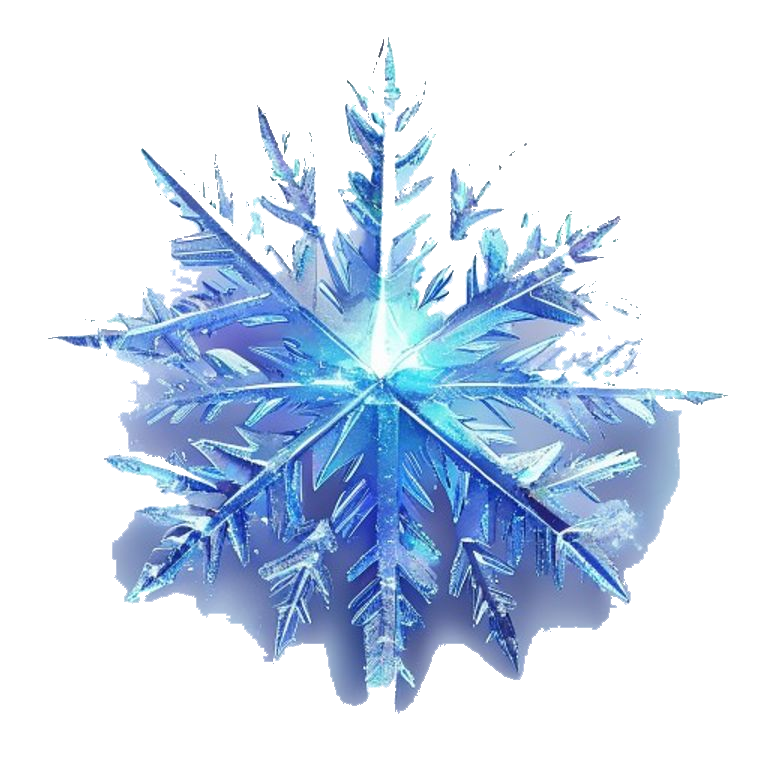
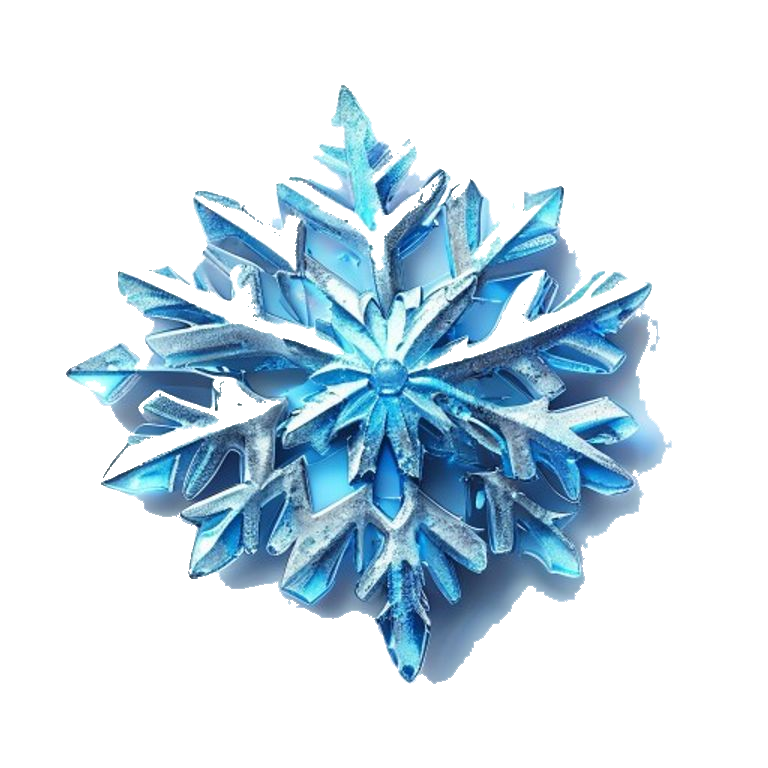
feat: เจนไอคอนสกิลใหม่ 3 ใบ แช่แข็ง/พลังโจมตี/กำแพง (v3.24.33)
skill_freeze + skill_attack + skill_wall เจนใหม่ (pollinations flux,
die-cut sticker บนพื้นขาว) แล้วคีย์พื้นออก → โปร่งใสสะอาดเข้าชุดกัน
คง skill_meteor + skill_goldrush เดิมไว้

diff --git a/Tower Quest 🏰.html b/Tower Quest 🏰.html
@@ -3,7 +3,7 @@
 
 <meta name="viewport" content="width=device-width, initial-scale=1.0, maximum-scale=1.0, user-scalable=no">
 <title>Tower Quest 🏰</title>
-<link rel="stylesheet" href="css/main.css?v=3.24.32">
+<link rel="stylesheet" href="css/main.css?v=3.24.33">
 </head>
 <body>
 
@@ -59,7 +59,7 @@
   <div class="island" id="logoIsland">🏰</div>
   <div class="gtitle">TOWER QUEST</div>
   <div class="gsub">⚔ ปกป้องอาณาจักรของคุณ!</div>
-  <div id="verBtn" style="font-size:10px;color:rgba(255,224,130,.45);letter-spacing:1px;margin-top:-18px;margin-bottom:18px;cursor:pointer;">📰 v3.24.32 — มีอะไรใหม่<span id="newsBadge" class="news-badge" style="display:none;"></span></div>
+  <div id="verBtn" style="font-size:10px;color:rgba(255,224,130,.45);letter-spacing:1px;margin-top:-18px;margin-bottom:18px;cursor:pointer;">📰 v3.24.33 — มีอะไรใหม่<span id="newsBadge" class="news-badge" style="display:none;"></span></div>
 
   <!-- battle buttons -->
   <button class="bbattle" id="startBtn">⚔ โหมดเนื้อเรื่อง</button>
@@ -920,15 +920,15 @@
     <button class="obtn" onclick="closeSettings()">✔ ปิด</button>
   </div>
 </div>
-<script src="js/cloud-save.js?v=3.24.32"></script>
-<script src="js/save.js?v=3.24.32"></script>
-<script src="js/enemy.js?v=3.24.32"></script>
-<script src="js/tower.js?v=3.24.32"></script>
-<script src="js/game.js?v=3.24.32"></script>
-<script src="js/ui-data.js?v=3.24.32"></script>
-<script src="js/ui-profile.js?v=3.24.32"></script>
-<script src="js/ui-casino.js?v=3.24.32"></script>
-<script src="js/ui.js?v=3.24.32"></script>
+<script src="js/cloud-save.js?v=3.24.33"></script>
+<script src="js/save.js?v=3.24.33"></script>
+<script src="js/enemy.js?v=3.24.33"></script>
+<script src="js/tower.js?v=3.24.33"></script>
+<script src="js/game.js?v=3.24.33"></script>
+<script src="js/ui-data.js?v=3.24.33"></script>
+<script src="js/ui-profile.js?v=3.24.33"></script>
+<script src="js/ui-casino.js?v=3.24.33"></script>
+<script src="js/ui.js?v=3.24.33"></script>
 
 
 </body></html>

diff --git a/js/ui-data.js b/js/ui-data.js
@@ -1,6 +1,10 @@
 /* ══ WHAT'S NEW (patch notes) ══ */
-const GAME_VERSION='3.24.32';
+const GAME_VERSION='3.24.33';
 const PATCH_NOTES=[
+  {ver:'3.24.33',date:'2026-07-02',title:'🎨 เจนไอคอนสกิลใหม่ 3 ใบ (แช่แข็ง/พลังโจมตี/กำแพง)',notes:[
+    'เปลี่ยนรูป ❄ แช่แข็งสนาม, ⚡ พลังโจมตี, 🛡 กำแพงวิญญาณ เป็นไอคอนใหม่สไตล์การ์ตูน พื้นโปร่งสะอาด',
+    'ทั้ง 5 สกิลเข้าชุดกัน (คง ☄ อุกกาบาต + 🎁 โกลด์รัชไว้)',
+  ]},
   {ver:'3.24.32',date:'2026-07-02',title:'🎨 เจนไอคอนอุกกาบาต/พลังโจมตีใหม่ พื้นโปร่งสะอาด',notes:[
     'เปลี่ยนรูป ☄ อุกกาบาต และ ⚡ พลังโจมตี เป็นไอคอนใหม่สไตล์การ์ตูน พื้นหลังโปร่งใสสะอาด',
     'ไม่มีพื้นหิน/แสงฟุ้งติดมากับภาพเหมือนของเดิมแล้ว',

diff --git a/CHANGELOG.md b/CHANGELOG.md
@@ -2,6 +2,11 @@
 
 All notable changes to Tower Quest 🏰 will be documented in this file.
 
+## v3.24.33 — เจนไอคอนสกิลใหม่ 3 ใบ (แช่แข็ง/พลังโจมตี/กำแพง)
+
+### Changed
+- `assets/images/skill_freeze.png`, `skill_attack.png`, `skill_wall.png`: เจนใหม่ผ่าน pollinations (flux) สไตล์ die-cut sticker บนพื้นขาว แล้วคีย์พื้นออก → ไอคอนโปร่งใสสะอาดเข้าชุดกับ skill_meteor ที่เจนไว้รอบก่อน (คง skill_meteor + skill_goldrush เดิม)
+
 ## v3.24.32 — เจนไอคอนอุกกาบาต/พลังโจมตีใหม่ (พื้นโปร่ง)
 
 ### Changed

diff --git a/PROJECT_MASTER.md b/PROJECT_MASTER.md
@@ -3,7 +3,7 @@
 This document is a system-by-system map of the game as implemented in
 [`Tower Quest 🏰.html`](Tower%20Quest%20%F0%9F%8F%B0.html) plus its
 `css/main.css` and `js/{save,enemy,tower,game,ui}.js` modules (current
-version **v3.24.32**). Line numbers refer to these files and
+version **v3.24.33**). Line numbers refer to these files and
 may drift as they change — use them as a starting point for searches, not as
 permanent anchors.
 

diff --git a/CLAUDE.md b/CLAUDE.md
@@ -5,7 +5,7 @@ Guidance for Claude Code (and other AI assistants) working in this repository.
 ## Project Summary
 
 **Tower Quest 🏰** is a browser-based tower defense game written in
-Thai, currently at **v3.24.32**. Since the v1.6.1 refactor, the game is split
+Thai, currently at **v3.24.33**. Since the v1.6.1 refactor, the game is split
 across:
 
 - [`Tower Quest 🏰.html`](Tower%20Quest%20%F0%9F%8F%B0.html) — head/body
